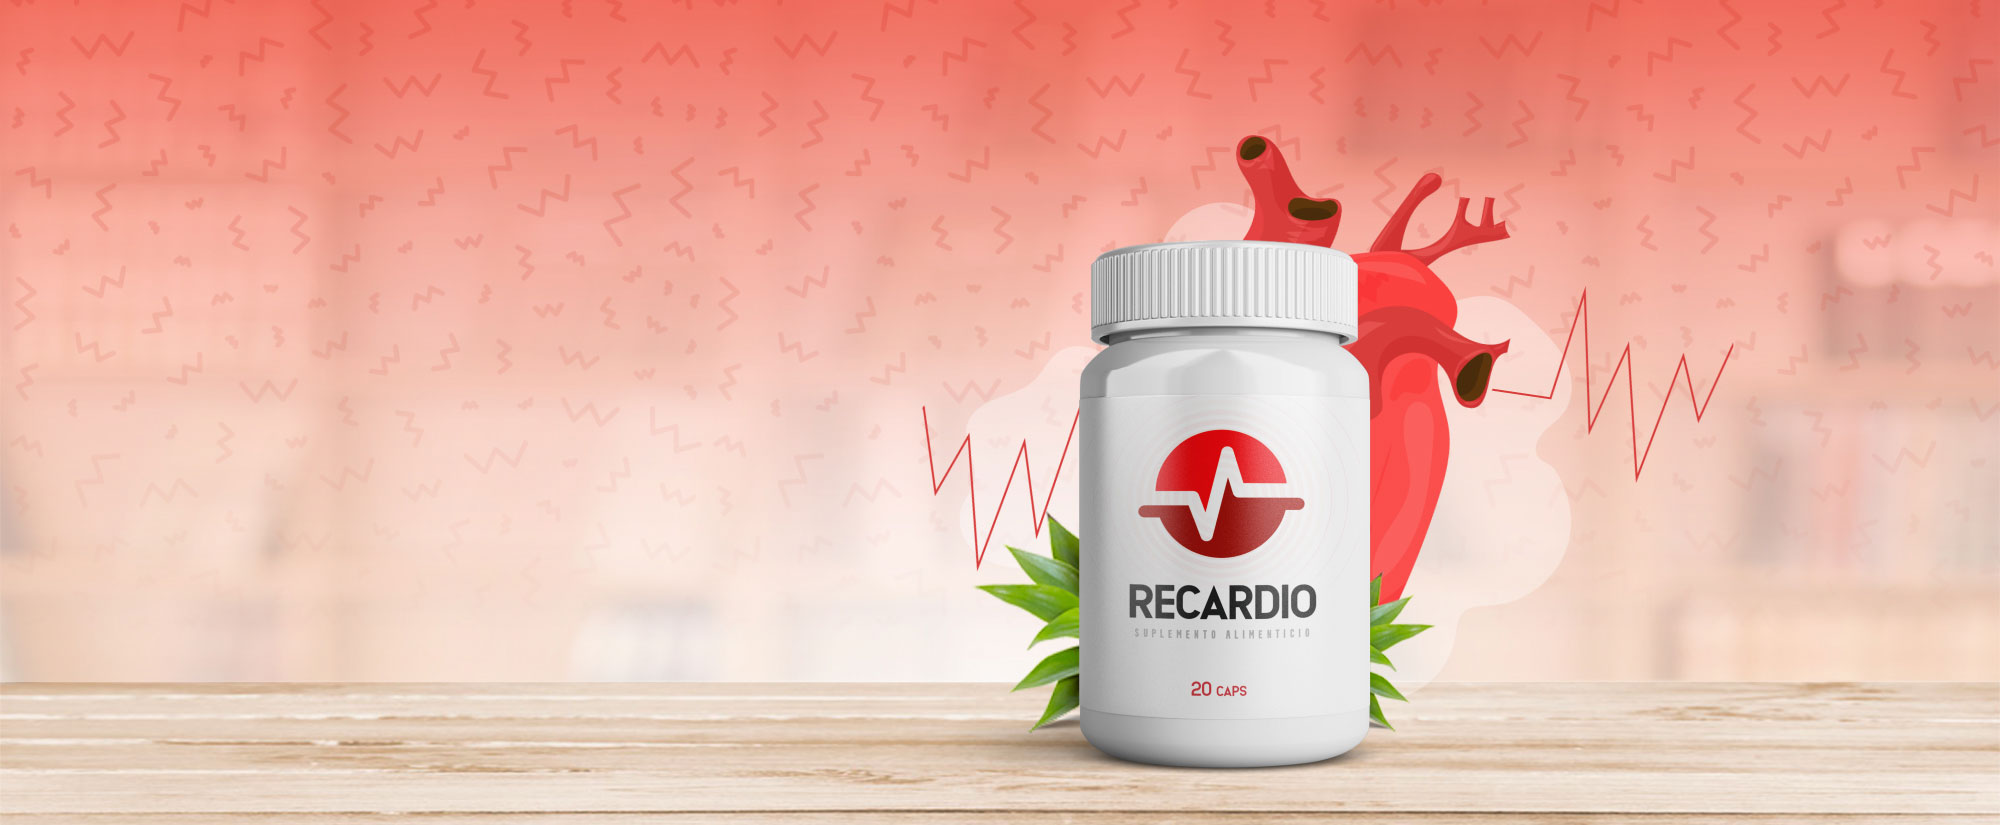
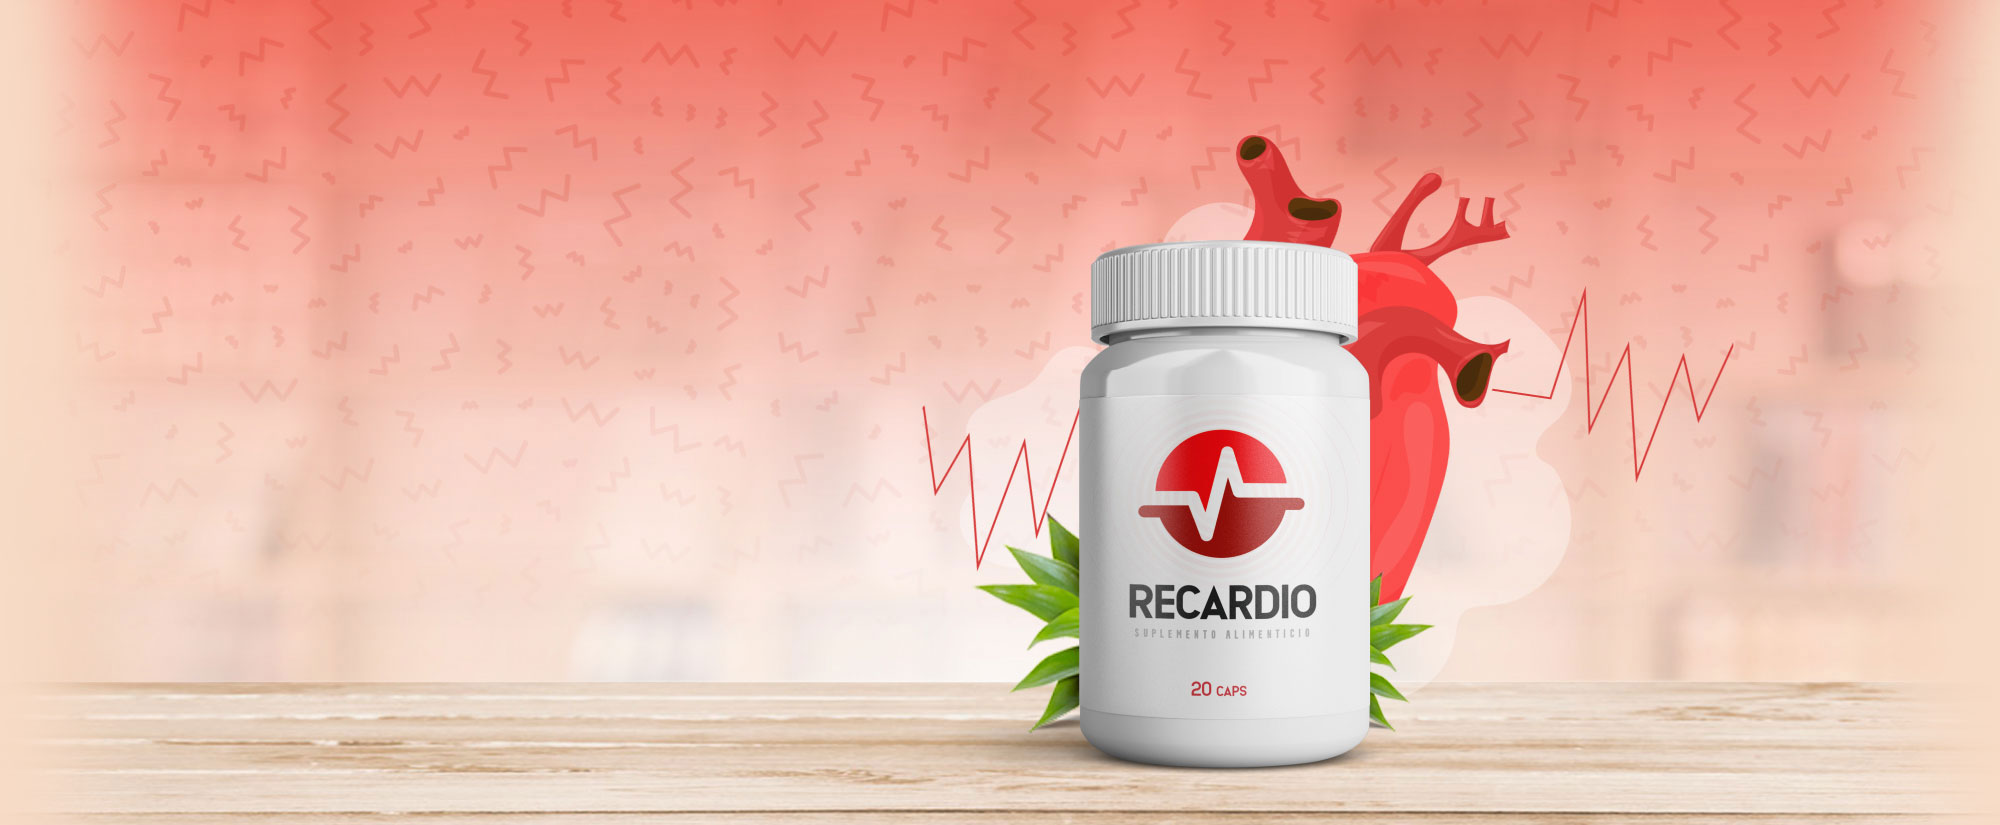
правки

diff --git a/src/sass/core/section.scss b/src/sass/core/section.scss
@@ -7,9 +7,8 @@
 
     &_face {
         background-image: url("../media/section/face.jpg");
-        background-size: cover;
         background-position: center bottom;
-        background-color: #f06c5f;
+        background-color: #f7dbc6;
     }
 
     &_order {
@@ -63,17 +62,21 @@
         display: flex;
         flex-grow: 1;
         background-image: url("../media/section/message.jpg");
-        background-size: cover;
+        background-repeat: repeat;
     }
 
     &_blog {
+        display: flex;
+        flex-grow: 1;
         background-image: url("../media/section/message.jpg");
-        background-size: cover;
+        background-repeat: repeat;
     }
 
     &_article {
+        display: flex;
+        flex-grow: 1;
         background-image: url("../media/section/message.jpg");
-        background-size: cover;
+        background-repeat: repeat;
     }
 }
 
@@ -90,6 +93,11 @@
     .section {
         padding-top: 40px;
         padding-bottom: 40px;
+
+        &_face {
+            background-color: #f06c5f;
+            background-image: url("../media/section/face-1024.jpg");
+        }
 
         &_pay {
             padding-top: 100px;

diff --git a/src/sass/block/article.scss b/src/sass/block/article.scss
@@ -5,10 +5,21 @@
 
     & p {
         font-size: 18px;
+        margin-bottom: 20px;
+    }
 
-        & + p {
-            margin-top: 25px;
-        }
+    & h2 {
+        font-size: 36px;
+        font-weight: 700;
+        margin-bottom: 15px;
+    }
+
+    & h3 {
+        margin-bottom: 10px;
+    }
+
+    & ul {
+        padding-left: 20px;
     }
 }
 

diff --git a/src/sass/block/logo.scss b/src/sass/block/logo.scss
@@ -9,6 +9,7 @@
     z-index: 24;
     text-transform: uppercase;
     text-align: center;
+    text-decoration: none;
 }
 
 @media (max-width: 1024px) {
